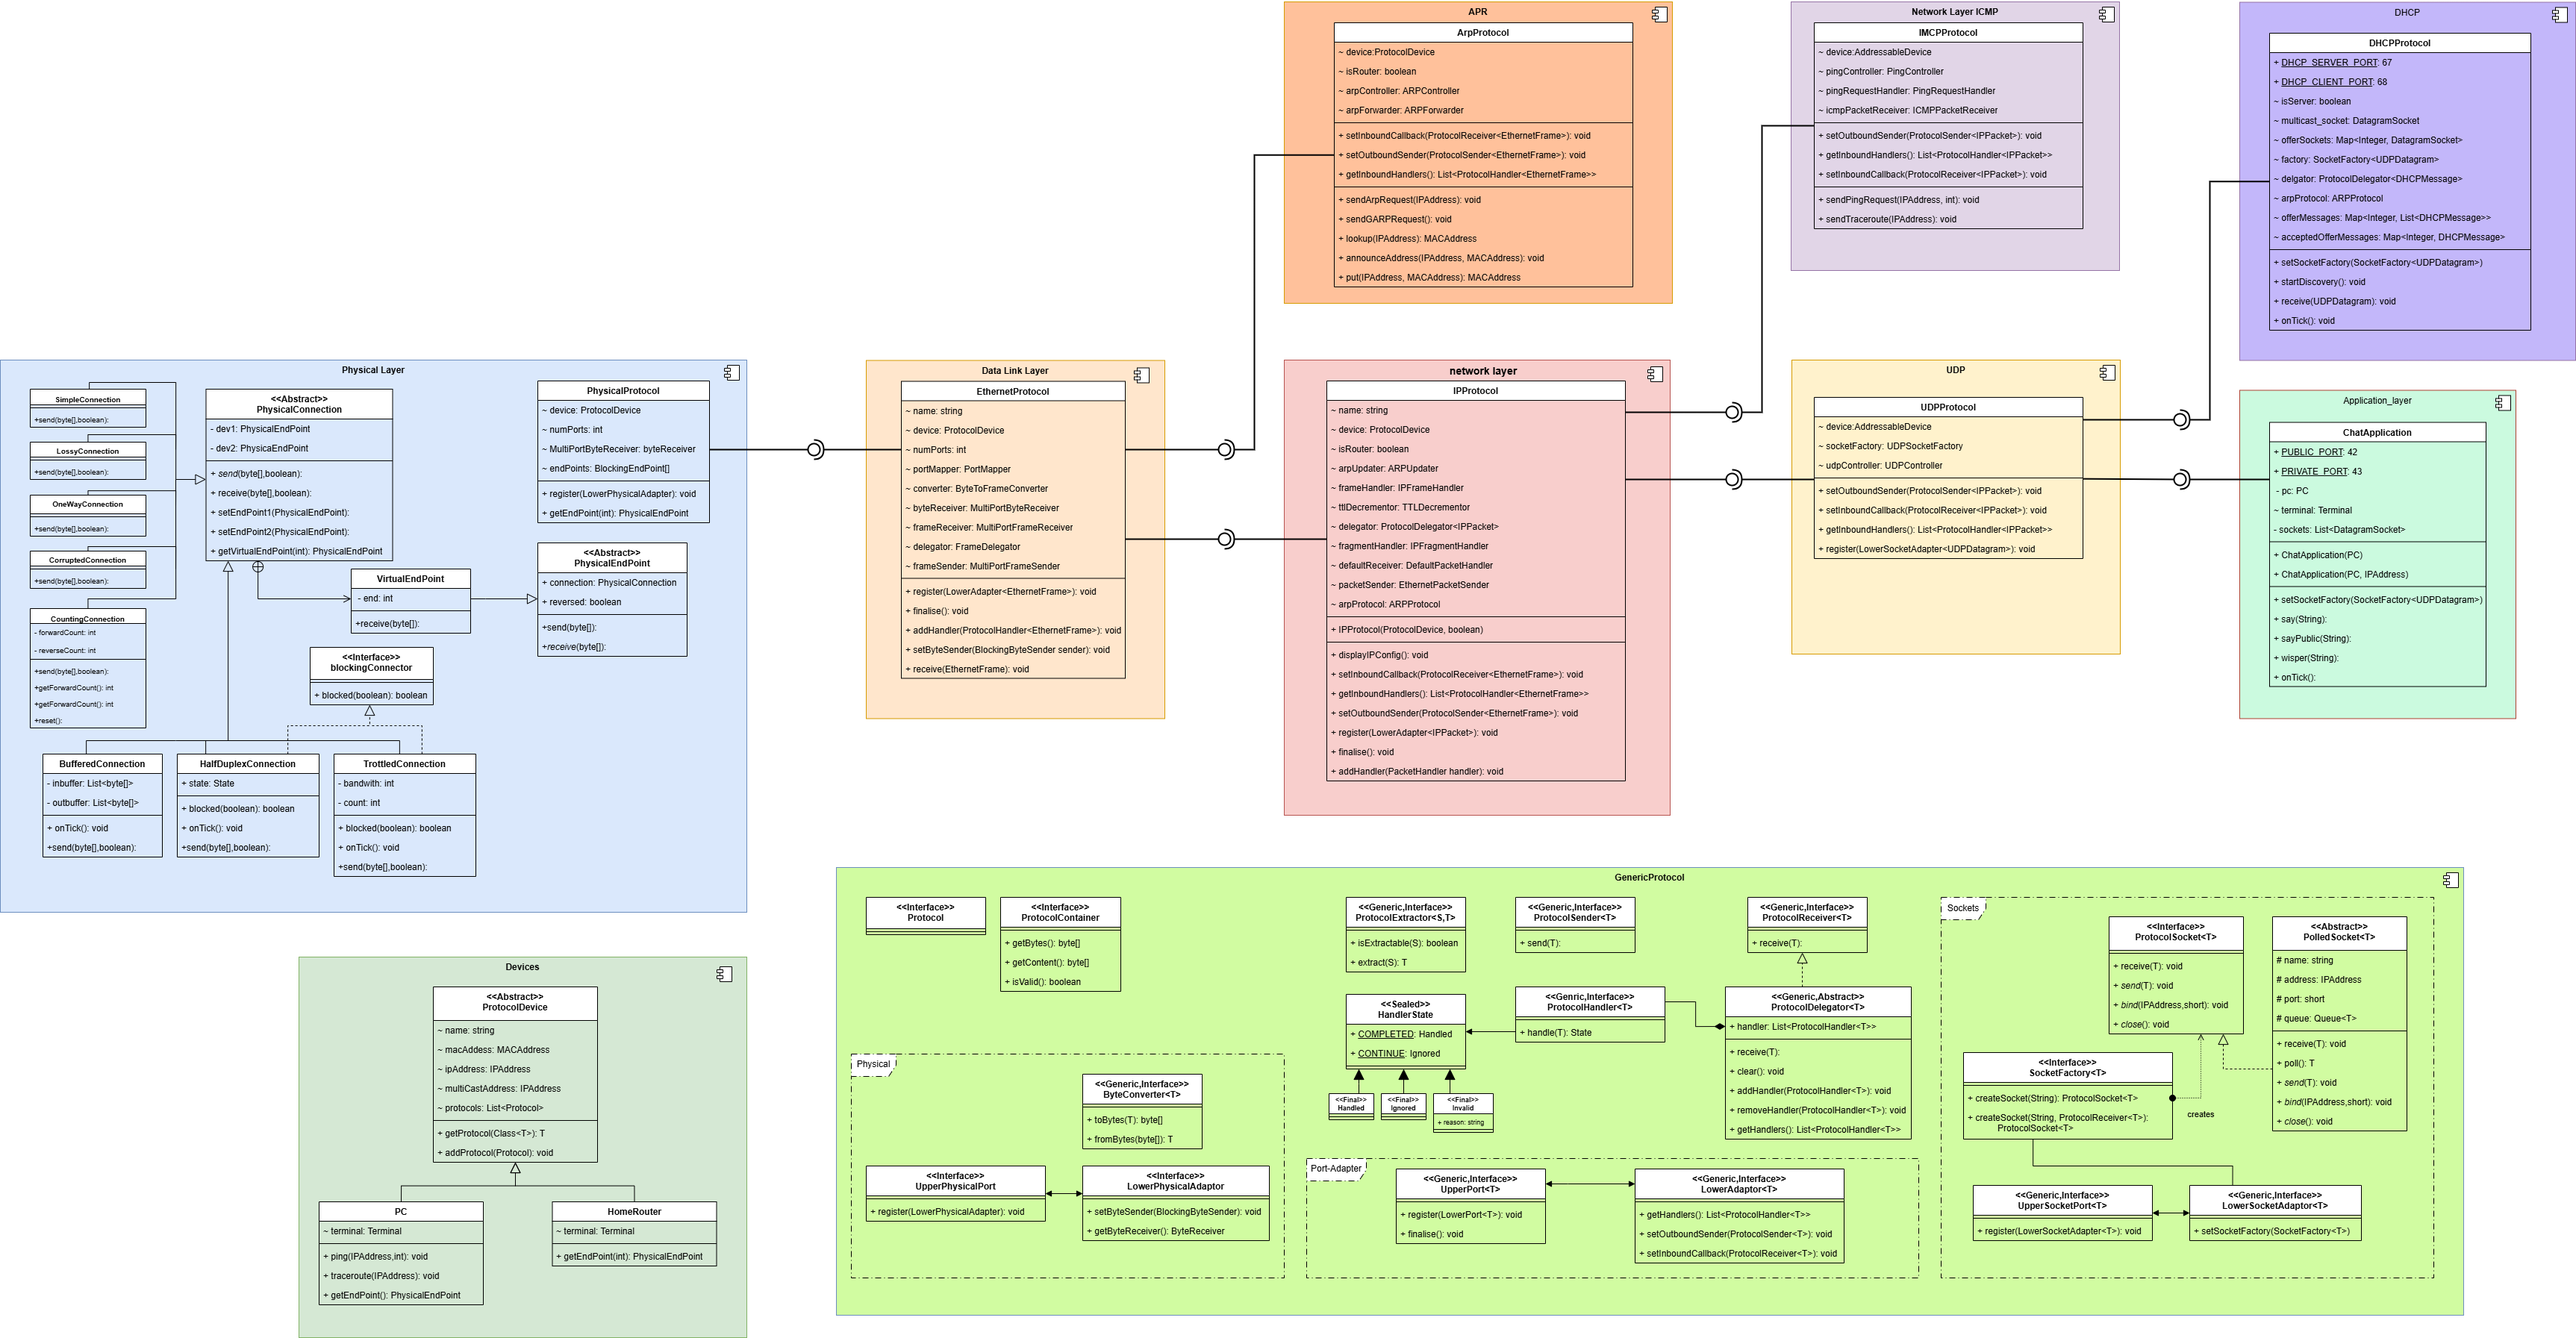
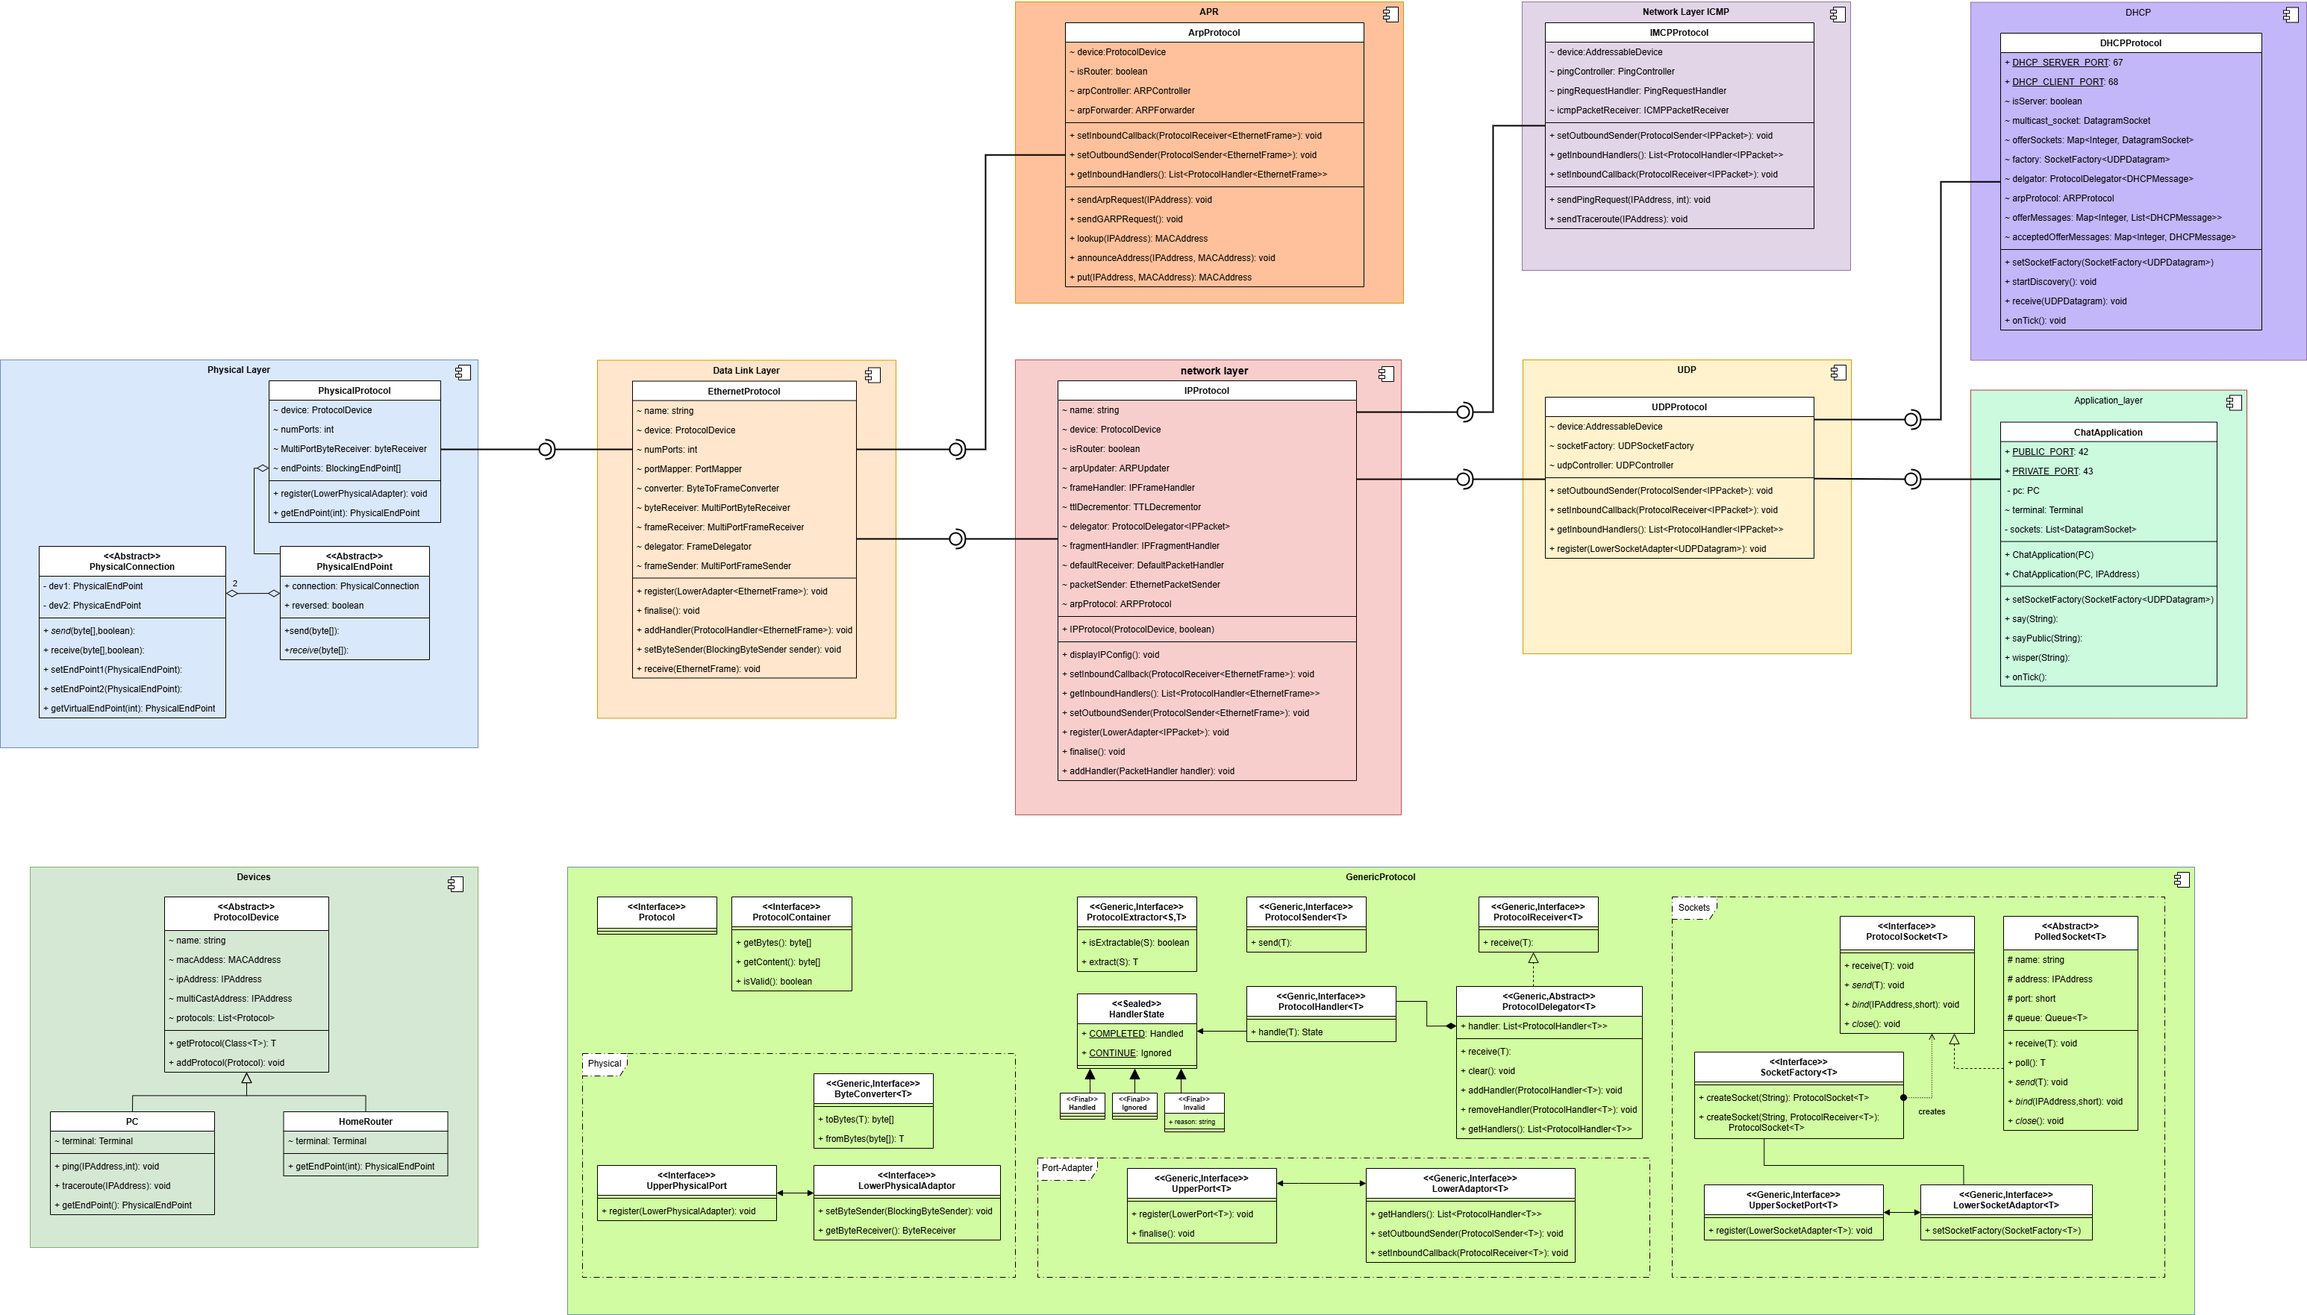
update readme and diagrams

diff --git a/appliedprog/src/main/java/org/singsurf/jns3/data_link_layer/EthernetProtocol.java b/appliedprog/src/main/java/org/singsurf/jns3/data_link_layer/EthernetProtocol.java
@@ -35,17 +35,17 @@ public class EthernetProtocol implements Protocol, LowerPhysicalAdapter, UpperPo
 
 		this.frameReceiver = new MultiPortFrameReceiver(this, (FrameReceiver) delegator);
 			
-			this.byteReceiver = new MultiPortByteReceiver() {
-				@Override
-				public void receiveFrame(int portNumber, byte[] frame) {
-					var ethFrame = converter.fromBytes(frame);
-					if(ethFrame == null) {
-						Jns3Logger.logError(getName(), "Failed to parse Ethernet frame from bytes");
-						return;
-					}
-					frameReceiver.receiveFrame(portNumber, ethFrame);
+		this.byteReceiver = new MultiPortByteReceiver() {
+			@Override
+			public void receiveFrame(int portNumber, byte[] frame) {
+				var ethFrame = converter.fromBytes(frame);
+				if(ethFrame == null) {
+					Jns3Logger.logError(getName(), "Failed to parse Ethernet frame from bytes");
+					return;
 				}
-			}; 
+				frameReceiver.receiveFrame(portNumber, ethFrame);
+			}
+		}; 
 	}
 
 	// Port and adapter methods

diff --git a/appliedprog/Week16.md b/appliedprog/Week16.md
@@ -119,11 +119,37 @@ This week see the conversion of the `HomeRouter` to be a `ProtocolDevice` with a
 2. `UDPProtocol` same for clients and servers
 3. `ICMPProtocol` same for clients and servers
 4. `IPProtocol` has an `isRouter` option adding a couple of new handlers:
-    * `TTLDecrementor` Decrements TTL, and if zero send an `DHCP` Time Exceeded to calling host.
+    * `TTLDecrementor` Decrements TTL, and if zero send a DHCP Time Exceeded message to calling device.
     * `IPPacketForwarder` forwards packets to the correct hardware port.
 5. `ARPProtocol` has an `isRouter` option adding a new handlers:
     * `ARPForwarder` forwards broadcast packets to other hardware port, as well as handling them by the controller.
 6. `EthernetProtocol`  now works with multiple port devices, treating single port machines as a special case.
+    * `PortMapper` defines a map between MAC addresses and port numbers with the concrete class `MultiPortMapper`.
+    * An anonymous class `MultiPortByteReceiver` extracts EthernetFrames from byte arrays.
+    * A `MultiPortFrameReceiver` with a `receive(int portNum, EthernetFrame frame)` that records the port number and passes the frame to the delegator.
+    * A `MultiPortFrameSender` that takes outbound frames, directs them to the correct port, and buffers
+    if the end point is blocked.
+
 7. `PhysicalProtocol` a new small protocol working with multiple ports.
     * `BlockingEndPoint` only allows outbound traffic if the connection is not blocked.
-    * Inbound traffic is sent to the `MultiPortByteReceiver`, with the port number.
+    * Inbound traffic from the endpoint is sent to the `MultiPortByteReceiver`, with the port number.
+
+8. A `HomeRouter` is a `ProtocolDevice` with this new set of Protocols.
+
+The `HomeRouter` class from the previous week and the `PassthroughRouter` from week 11 server as templates for some of the functionality. The latter had most of the logic in a single method.
+
+To implement the new `HomeRouter` a step by step approach was used. For each layer from the data-link layer up, test are created using existing tests as a basis. The changes to the protocol are implemented. For the data-link layer, a custom `RouterEthernetProtocol` is created.
+
+Once the full stack has been tested, it was time to create a `PhysicalProtocol` with the new Port and Adapter classes. Some reorganisation of classes was necessary
+to ensure the protocol only works with byte arrays and not frames. Buffering was moved to the Ethernet protocol.
+
+Finally functionality of the `RouterEthernetProtocol` is
+pulled up to the `EthernetProtocol` so a single class is used for PC and routers. Again this is done in a step by step fashion, ensuring all tests are green at each step.
+
+Once done the old HomeRouter and a few low level tests were dropped. Coverage reports also identified some now unused methods and classes that are also dropped.
+
+The inbound logic for the IP layer posed some problems. The `TTLDecrementor` should be run once for each inbound packet, and the `IPFragementHandler` passes completed packets back to the delegator. Both classes could not be implemented as `PacketHandler` in the same delegator loop without decrementing the TTL of a recombined packet twice. The simplest solution was to implement the decrementor as chained method passing modified frames to the delegator.
+
+This now completes the conversion to using Generic and Protocols. The Protocol level view looks quite clean.
+
+![Protocol diagram](diagrams/week16%20protocols.png)
